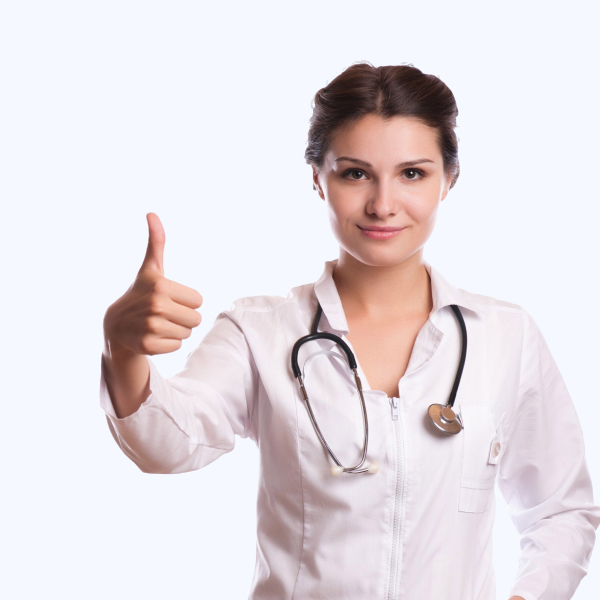
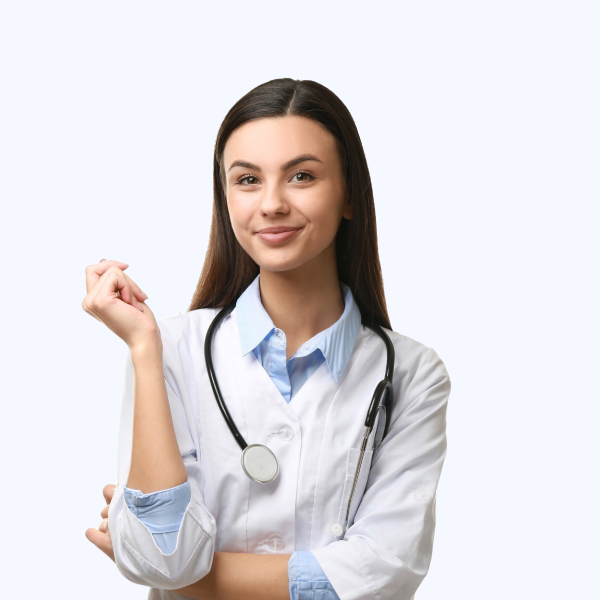
update revision name, photo, and fix typ

diff --git a/src/app/data/doctors.js b/src/app/data/doctors.js
@@ -1,7 +1,7 @@
 export const doctors = [
   {
     id: 1,
-    name: "Dr. Amanda Watson, Sp.A",
+    name: "dr. Amelia Johnson, M.D",
     specialty: "Neurology",
     schedule: {
       Monday: "14:00 - 17:00",
@@ -17,7 +17,7 @@ export const doctors = [
     background:
       "Formal Education: XYZ University, Informal Education: ABC Training",
     poli: "Neurology",
-    bio: "Dr. Amanda Watson is a highly respected neurologist with over 15 years of experience in the field. She completed her medical degree at XYZ University and further specialized in neurology. Dr. Watson is known for her compassionate care and dedication to her patients. She has published numerous research papers and is actively involved in various neurology conferences and workshops. In her free time, she enjoys reading medical journals and volunteering at local health camps.",
+    bio: "dr. Amanda Watson is a highly respected neurologist with over 15 years of experience in the field. She completed her medical degree at XYZ University and further specialized in neurology. dr. Watson is known for her compassionate care and dedication to her patients. She has published numerous research papers and is actively involved in various neurology conferences and workshops. In her free time, she enjoys reading medical journals and volunteering at local health camps.",
     education: [
       {
         level: "Undergraduate",
@@ -51,7 +51,7 @@ export const doctors = [
   },
   {
     id: 2,
-    name: "Dr. Budi Santoso, Sp.PD",
+    name: "dr. Benjamin Franklin, Ph.D",
     specialty: "Internal Medicine",
     schedule: {
       Monday: "09:00 - 12:00",
@@ -67,7 +67,7 @@ export const doctors = [
     background:
       "Formal Education: University of Indonesia, Informal Education: Singapore General Hospital Training",
     poli: "Internal Medicine",
-    bio: "Dr. Budi Santoso is an experienced internist with a special interest in diabetes and cardiovascular diseases. With over 20 years of practice, he has helped countless patients manage chronic conditions effectively. His patient-centered approach and commitment to continuous learning have made him a trusted healthcare provider.",
+    bio: "dr. Budi Santoso is an experienced internist with a special interest in diabetes and cardiovascular diseases. With over 20 years of practice, he has helped countless patients manage chronic conditions effectively. His patient-centered approach and commitment to continuous learning have made him a trusted healthcare provider.",
     education: [
       {
         level: "Undergraduate",
@@ -100,7 +100,7 @@ export const doctors = [
   },
   {
     id: 3,
-    name: "Dr. Sarah Chen, Sp.OG",
+    name: "dr. Clara Evans, M.D",
     specialty: "Obstetrics & Gynecology",
     schedule: {
       Monday: "10:00 - 13:00",
@@ -116,7 +116,7 @@ export const doctors = [
     background:
       "Formal Education: National University of Singapore, Informal Education: Women's Health Specialist Training",
     poli: "Obstetrics & Gynecology",
-    bio: "Dr. Sarah Chen specializes in high-risk pregnancies and reproductive health. With 12 years of experience, she has successfully helped numerous women through their pregnancy journeys. She is known for her gentle approach and comprehensive care in women's health issues.",
+    bio: "dr. Sarah Chen specializes in high-risk pregnancies and reproductive health. With 12 years of experience, she has successfully helped numerous women through their pregnancy journeys. She is known for her gentle approach and comprehensive care in women's health issues.",
     education: [
       {
         level: "Undergraduate",
@@ -149,7 +149,7 @@ export const doctors = [
   },
   {
     id: 4,
-    name: "Dr. Rini Pratiwi, Sp.A",
+    name: "dr. Elena Martinez, M.D",
     specialty: "Pediatrics",
     schedule: {
       Monday: "08:00 - 11:00",
@@ -165,7 +165,7 @@ export const doctors = [
     background:
       "Formal Education: Universitas Gadjah Mada, Informal Education: Pediatric Emergency Care Training",
     poli: "Pediatrics",
-    bio: "Dr. Rini Pratiwi is a dedicated pediatrician with a special focus on newborn care and childhood development. Her 10 years of experience have made her a favorite among young patients and their parents. She is known for her warm personality and ability to make children feel comfortable during consultations.",
+    bio: "dr. Rini Pratiwi is a dedicated pediatrician with a special focus on newborn care and childhood development. Her 10 years of experience have made her a favorite among young patients and their parents. She is known for her warm personality and ability to make children feel comfortable during consultations.",
     education: [
       {
         level: "Undergraduate",
@@ -198,7 +198,7 @@ export const doctors = [
   },
   {
     id: 5,
-    name: "Dr. Michael Lee, Sp.JP",
+    name: "dr. Frederick Brown, D.D.S",
     specialty: "Cardiology",
     schedule: {
       Monday: "11:00 - 14:00",
@@ -214,7 +214,7 @@ export const doctors = [
     background:
       "Formal Education: Johns Hopkins University, Informal Education: Advanced Cardiac Life Support Training",
     poli: "Cardiology",
-    bio: "Dr. Michael Lee is a distinguished cardiologist with expertise in interventional cardiology. His 18 years of experience include numerous successful cardiac procedures and research in heart disease prevention. He is committed to providing the latest evidence-based treatments to his patients.",
+    bio: "dr. Michael Lee is a distinguished cardiologist with expertise in interventional cardiology. His 18 years of experience include numerous successful cardiac procedures and research in heart disease prevention. He is committed to providing the latest evidence-based treatments to his patients.",
     education: [
       {
         level: "Undergraduate",
@@ -247,7 +247,7 @@ export const doctors = [
   },
   {
     id: 6,
-    name: "Dr. Siti Rahmah, Sp.KJ",
+    name: "dr. Grace White, M.D",
     specialty: "Psychiatry",
     schedule: {
       Monday: "09:00 - 12:00",
@@ -263,7 +263,7 @@ export const doctors = [
     background:
       "Formal Education: Universitas Indonesia, Informal Education: Cognitive Behavioral Therapy Training",
     poli: "Psychiatry",
-    bio: "Dr. Siti Rahmah is a compassionate psychiatrist specializing in mood disorders and anxiety treatment. With 14 years of experience, she takes a holistic approach to mental health care. She is dedicated to reducing mental health stigma and promoting psychological well-being.",
+    bio: "dr. Siti Rahmah is a compassionate psychiatrist specializing in mood disorders and anxiety treatment. With 14 years of experience, she takes a holistic approach to mental health care. She is dedicated to reducing mental health stigma and promoting psychological well-being.",
     education: [
       {
         level: "Undergraduate",
@@ -296,7 +296,7 @@ export const doctors = [
   },
   {
     id: 7,
-    name: "Dr. James Wilson, Sp.THT-KL",
+    name: "dr. Henry Davis, M.P.H",
     specialty: "ENT",
     schedule: {
       Monday: "13:00 - 16:00",
@@ -312,7 +312,7 @@ export const doctors = [
     background:
       "Formal Education: University of Melbourne, Informal Education: Advanced ENT Surgery Training",
     poli: "ENT",
-    bio: "Dr. James Wilson is an experienced ENT specialist with expertise in both adult and pediatric cases. His 16 years of practice include advanced surgical procedures and innovative treatment approaches. He is particularly known for his work in hearing restoration and sinus surgery.",
+    bio: "dr. James Wilson is an experienced ENT specialist with expertise in both adult and pediatric cases. His 16 years of practice include advanced surgical procedures and innovative treatment approaches. He is particularly known for his work in hearing restoration and sinus surgery.",
     education: [
       {
         level: "Undergraduate",
@@ -345,7 +345,7 @@ export const doctors = [
   },
   {
     id: 8,
-    name: "Dr. Dewi Kusuma, Sp.M",
+    name: "dr. Isabelle Clark, D.O",
     specialty: "Ophthalmology",
     schedule: {
       Monday: "10:00 - 13:00",
@@ -361,7 +361,7 @@ export const doctors = [
     background:
       "Formal Education: Airlangga University, Informal Education: Advanced Cataract Surgery Training",
     poli: "Ophthalmology",
-    bio: "Dr. Dewi Kusuma is a skilled ophthalmologist specializing in cataract surgery and retinal disorders. With 13 years of experience, she has performed thousands of successful eye surgeries. She is passionate about preventing blindness and promoting eye health awareness.",
+    bio: "dr. Dewi Kusuma is a skilled ophthalmologist specializing in cataract surgery and retinal disorders. With 13 years of experience, she has performed thousands of successful eye surgeries. She is passionate about preventing blindness and promoting eye health awareness.",
     education: [
       {
         level: "Undergraduate",
@@ -394,7 +394,7 @@ export const doctors = [
   },
   {
     id: 9,
-    name: "Dr. Robert Kim, Sp.KK",
+    name: "dr. Jacob Wilson, Ph.D",
     specialty: "Dermatology",
     schedule: {
       Monday: "08:00 - 11:00",
@@ -410,7 +410,7 @@ export const doctors = [
     background:
       "Formal Education: Seoul National University, Informal Education: Advanced Cosmetic Dermatology Training",
     poli: "Dermatology",
-    bio: "Dr. Robert Kim is a board-certified dermatologist specializing in both medical and cosmetic dermatology. With 11 years of experience, he has expertise in treating various skin conditions and performing advanced cosmetic procedures. His approach combines clinical excellence with aesthetic sensibility.",
+    bio: "dr. Robert Kim is a board-certified dermatologist specializing in both medical and cosmetic dermatology. With 11 years of experience, he has expertise in treating various skin conditions and performing advanced cosmetic procedures. His approach combines clinical excellence with aesthetic sensibility.",
     education: [
       {
         level: "Undergraduate",
@@ -443,7 +443,7 @@ export const doctors = [
   },
   {
     id: 10,
-    name: "Dr. Ahmad Faisal, Sp.B",
+    name: "dr. Lucas Harris, M.D",
     specialty: "General Surgery",
     schedule: {
       Monday: "14:00 - 17:00",
@@ -459,7 +459,7 @@ export const doctors = [
     background:
       "Formal Education: Universitas Padjadjaran, Informal Education: Minimally Invasive Surgery Training",
     poli: "General Surgery",
-    bio: "Dr. Ahmad Faisal is a skilled general surgeon with expertise in minimally invasive procedures. Throughout his 15 years of practice, he has performed numerous successful surgeries and is known for his precise surgical technique and excellent patient outcomes.",
+    bio: "dr. Ahmad Faisal is a skilled general surgeon with expertise in minimally invasive procedures. Throughout his 15 years of practice, he has performed numerous successful surgeries and is known for his precise surgical technique and excellent patient outcomes.",
     education: [
       {
         level: "Undergraduate",
@@ -492,7 +492,7 @@ export const doctors = [
   },
   {
     id: 11,
-    name: "Dr. Maria Rodriguez, Sp.P",
+    name: "dr. Karen Taylor, D.V.M",
     specialty: "Pulmonology",
     schedule: {
       Monday: "09:00 - 12:00",
@@ -508,7 +508,7 @@ export const doctors = [
     background:
       "Formal Education: University of Barcelona, Informal Education: Advanced Respiratory Care Training",
     poli: "Pulmonology",
-    bio: "Dr. Maria Rodriguez is a dedicated pulmonologist with special interest in respiratory diseases and sleep disorders. Her 12 years of experience include managing complex respiratory conditions and implementing innovative treatment approaches for sleep apnea.",
+    bio: "dr. Maria Rodriguez is a dedicated pulmonologist with special interest in respiratory diseases and sleep disorders. Her 12 years of experience include managing complex respiratory conditions and implementing innovative treatment approaches for sleep apnea.",
     education: [
       {
         level: "Undergraduate",
@@ -541,7 +541,7 @@ export const doctors = [
   },
   {
     id: 12,
-    name: "Dr. Yuki Tanaka, Sp.S",
+    name: "dr. Maria Rodriguez, M.D., Ph.D",
     specialty: "Neurosurgery",
     schedule: {
       Monday: "13:00 - 16:00",
@@ -557,7 +557,7 @@ export const doctors = [
     background:
       "Formal Education: Tokyo University, Informal Education: Advanced Neurosurgical Techniques Training",
     poli: "Neurosurgery",
-    bio: "Dr. Yuki Tanaka is a highly skilled neurosurgeon specializing in complex brain and spine surgeries. With 17 years of experience, she has performed numerous successful procedures and is particularly known for her expertise in minimally invasive neurosurgical techniques.",
+    bio: "dr. Yuki Tanaka is a highly skilled neurosurgeon specializing in complex brain and spine surgeries. With 17 years of experience, she has performed numerous successful procedures and is particularly known for her expertise in minimally invasive neurosurgical techniques.",
     education: [
       {
         level: "Undergraduate",
@@ -590,7 +590,7 @@ export const doctors = [
   },
   {
     id: 13,
-    name: "Dr. Andi Wijaya, Sp.U",
+    name: "dr. Nathan Scott, D.C",
     specialty: "Urology",
     schedule: {
       Monday: "10:00 - 13:00",
@@ -606,7 +606,7 @@ export const doctors = [
     background:
       "Formal Education: Universitas Indonesia, Informal Education: Advanced Urological Surgery Training",
     poli: "Urology",
-    bio: "Dr. Andi Wijaya is an experienced urologist with expertise in both traditional and minimally invasive urological procedures. His 14 years of practice include extensive experience in treating various urological conditions and performing complex surgeries.",
+    bio: "dr. Andi Wijaya is an experienced urologist with expertise in both traditional and minimally invasive urological procedures. His 14 years of practice include extensive experience in treating various urological conditions and performing complex surgeries.",
     education: [
       {
         level: "Undergraduate",
@@ -639,7 +639,7 @@ export const doctors = [
   },
   {
     id: 14,
-    name: "Dr. Lisa Chen, Sp.PK",
+    name: "dr. Lisa Chen, Sp.PK",
     specialty: "Clinical Pathology",
     schedule: {
       Monday: "08:00 - 11:00",
@@ -655,7 +655,7 @@ export const doctors = [
     background:
       "Formal Education: National Taiwan University, Informal Education: Advanced Laboratory Medicine Training",
     poli: "Clinical Pathology",
-    bio: "Dr. Lisa Chen is a clinical pathologist with extensive experience in laboratory medicine and diagnostic testing. Over her 13 years of practice, she has developed expertise in molecular diagnostics and has contributed significantly to improving laboratory testing protocols.",
+    bio: "dr. Lisa Chen is a clinical pathologist with extensive experience in laboratory medicine and diagnostic testing. Over her 13 years of practice, she has developed expertise in molecular diagnostics and has contributed significantly to improving laboratory testing protocols.",
     education: [
       {
         level: "Undergraduate",
@@ -688,7 +688,7 @@ export const doctors = [
   },
   {
     id: 15,
-    name: "Dr. Emma Thompson, Sp.KFR",
+    name: "dr. Emma Thompson, Sp.KFR",
     specialty: "Physical Medicine",
     schedule: {
       Monday: "11:00 - 14:00",
@@ -704,7 +704,7 @@ export const doctors = [
     background:
       "Formal Education: University of Sydney, Informal Education: Advanced Rehabilitation Techniques Training",
     poli: "Physical Medicine and Rehabilitation",
-    bio: "Dr. Emma Thompson specializes in physical medicine and rehabilitation with a focus on sports medicine and post-injury recovery. Her 11 years of experience include working with athletes and developing comprehensive rehabilitation programs for various conditions.",
+    bio: "dr. Emma Thompson specializes in physical medicine and rehabilitation with a focus on sports medicine and post-injury recovery. Her 11 years of experience include working with athletes and developing comprehensive rehabilitation programs for various conditions.",
     education: [
       {
         level: "Undergraduate",

diff --git a/src/app/page.jsx b/src/app/page.jsx
@@ -98,7 +98,7 @@ export default function Home() {
             <div className="flex items-center gap-4">
               <div className="w-full">
                 <label htmlFor="" className="mb-4 font-medium text-sm">
-                  Pilih rumah sakit
+                  Choose hospital
                 </label>
                 <select
                   name="branch"
@@ -106,7 +106,7 @@ export default function Home() {
                   onChange={handleFilterChange}
                   className="shadow minimal appearance-none border rounded text-sm w-full py-2 px-3 mt-2 text-gray-700 leading-tight focus:outline-primary focus:shadow-outline"
                 >
-                  <option value="">Semua Rumah Sakit</option>
+                  <option value="">All hospital</option>
                   {branches.map((branch, index) => (
                     <option key={index} value={branch}>
                       {branch}
@@ -117,7 +117,7 @@ export default function Home() {
 
               <div className="w-full">
                 <label htmlFor="" className="mb-4 font-medium text-sm">
-                  Pilih Specialty
+                  Choose Specialty
                 </label>
                 <select
                   name="specialty"
@@ -125,7 +125,7 @@ export default function Home() {
                   onChange={handleFilterChange}
                   className="shadow border minimal round appearance-none rounded text-sm w-full py-2 px-3 mt-2 text-gray-700 leading-tight focus:outline-primary focus:shadow-outline"
                 >
-                  <option value="">Semua Specialty</option>
+                  <option value="">All Specialty</option>
                   {specialtys.map((specialty, index) => (
                     <option key={index} value={specialty}>
                       {specialty}
@@ -137,14 +137,14 @@ export default function Home() {
 
             <div className="filter-item">
               <label htmlFor="" className="mb-4 font-medium text-sm">
-                Cari bedasarkan nama
+                Search by name
               </label>
               <input
                 type="text"
                 name="doctorName"
                 value={filters.doctorName}
                 onChange={handleFilterChange}
-                placeholder="Cari nama dokter..."
+                placeholder="Enter doctor's name"
                 className="shadow border round rounded mt-2 text-sm w-full py-2 px-3 text-gray-700 leading-tight focus:outline-primary focus:shadow-outline"
               />
             </div>

diff --git a/src/app/doctors/[doctorId]/page.jsx b/src/app/doctors/[doctorId]/page.jsx
@@ -80,7 +80,7 @@ export default function DoctorDetails({ params }) {
               <h1 className="text-2xl font-semibold">{doctor.name}</h1>
               <div className="space-y-2">
                 <p className="font-medium text-sm">
-                  Poli: <span className="text-gray-500"> {doctor.poli}</span>
+                  Poly: <span className="text-gray-500"> {doctor.poli}</span>
                 </p>
                 <p className="font-medium text-sm">
                   Specialty:{" "}

diff --git a/src/app/components/DoctorCard.jsx b/src/app/components/DoctorCard.jsx
@@ -39,7 +39,7 @@ export default function DoctorCard({ doctor }) {
         className="w-full font-semibold text-center bg-white py-2 rounded-md shadow-sm border border-neutral-300"
         href={`/doctors/${doctor.id}`}
       >
-        Lihat jadwal
+        See profile
       </Link>
     </div>
   );
